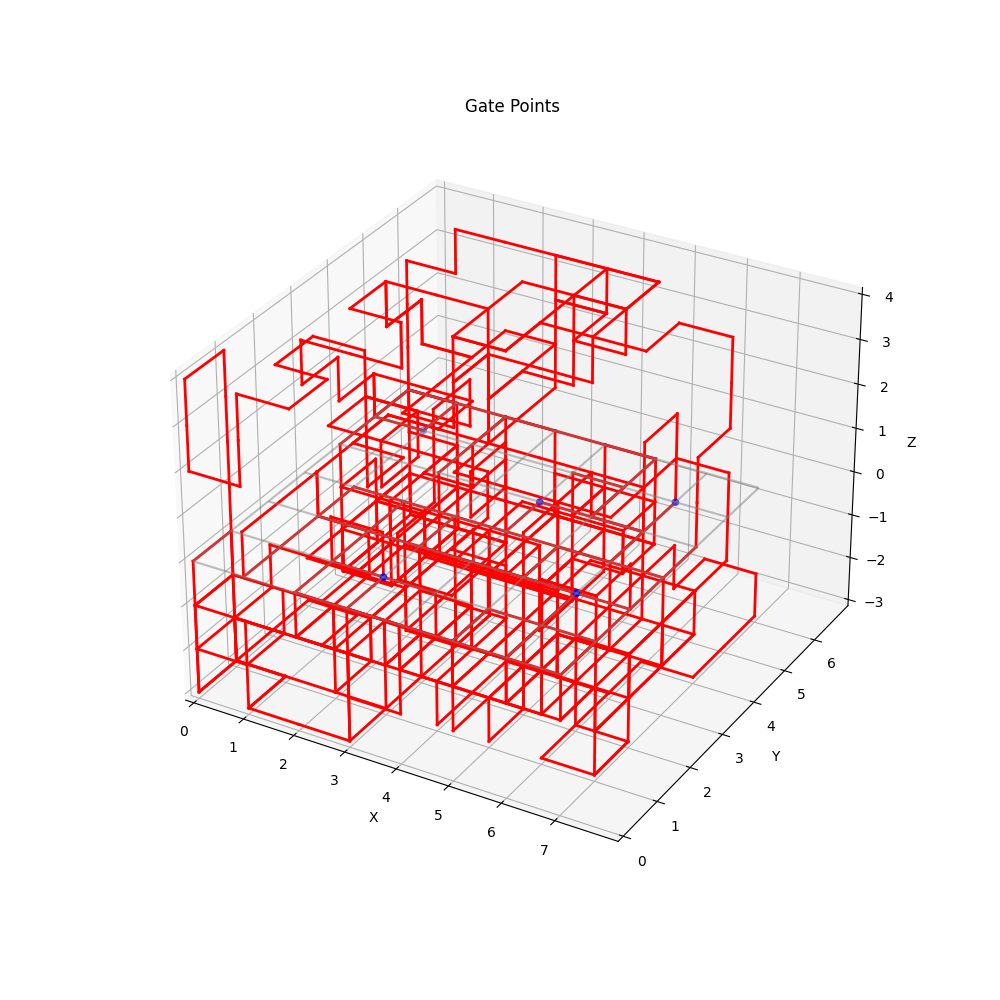
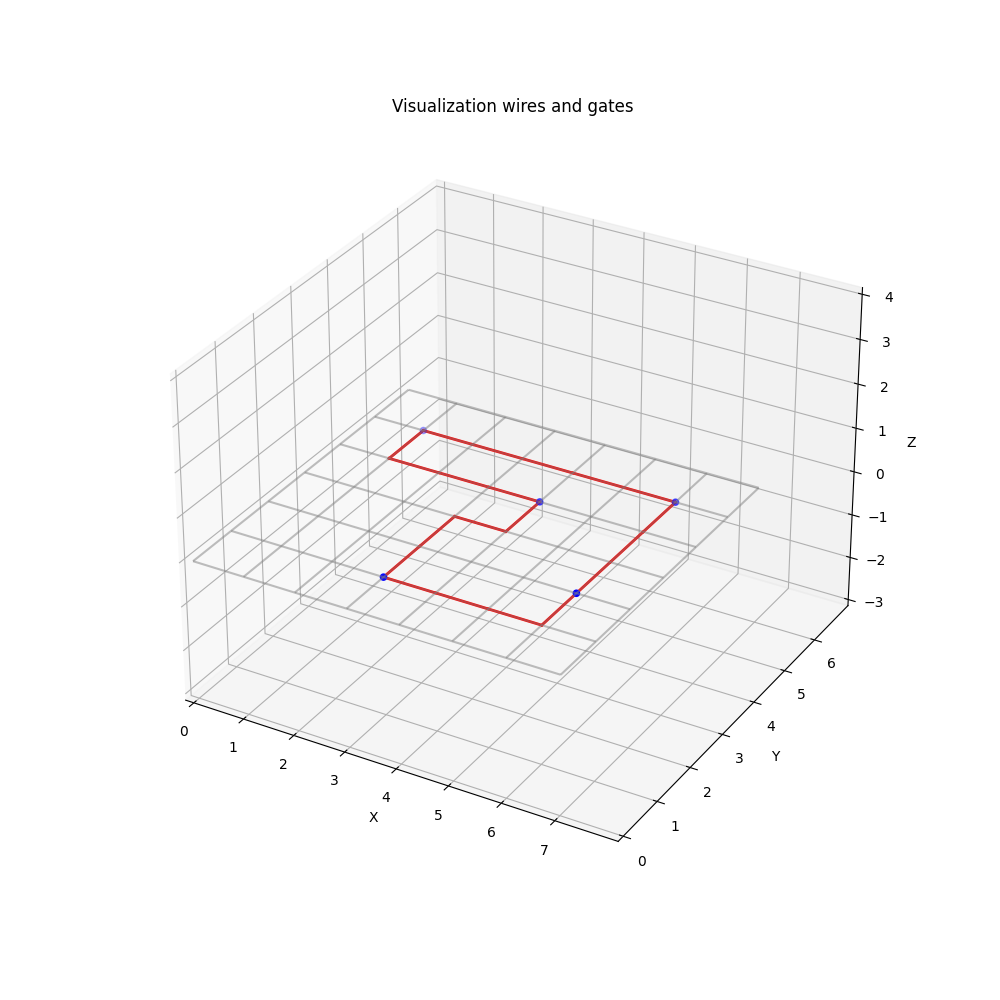
test class en probeerd graphen te maken

diff --git a/Code/Classes/testing.py b/Code/Classes/testing.py
@@ -1,0 +1,156 @@
+import sys
+from location import *
+from gate import *
+from wire import *
+from grid import *
+from chip import *
+sys.path.append("..")
+from main import *
+sys.path.append("../algorithms")
+from greedy import *
+from randomize import *
+from randomize_twee_d import *
+sys.path.append("../Visualization")
+from bargraph import *
+
+class Test():
+
+    def __init__(self) -> None:
+        self.cost_list = []
+        self.cost_library = {}
+        
+        self.netlists = []
+        self.variables = []
+
+    def make_bar_graph(self):
+        print(self.cost_library)
+        print(self.variables)
+        bargraph(self.cost_library, self.variables)
+
+    def make_graph(self):
+        pass
+
+    def get_netlists(self, number_chip):
+        if number_chip == 0:
+            self.netlists = [1, 2, 3]
+        # elif number_chip == 1:
+        #     self.netlists = [4, 5, 6]
+        # elif number_chip == 2:
+        #     self.netlists = [7, 8, 9]
+
+        return self.netlists
+
+    def testing_order(self,netlist, chip_id, gates_file, algorithm):
+        """
+        Automated testing
+        """
+        
+        self.cost_library[f"{netlist}"]= []
+
+        sorting_orders = ["basic", "random", "reverse","long","least-connections","most-connections","sum-lowest","sum-highest","outside","intra-quadrant","manhattan", "short", "middle", "inter-quadrant"]
+        self.variables = sorting_orders
+        for order_choice in sorting_orders:
+
+            # make new chip
+            chip = Chip(chip_id, netlist, gates_file)
+
+            # load everything
+            chip.load_gates()
+            chip.load_netlist()
+            
+            choose_algorithm(algorithm, chip, order_choice)
+            cost = chip.calculate_cost()
+            print(f"sort: {order_choice} || final score", cost)
+            self.cost_library[f"{netlist}"].append(cost)
+
+    def testing_all_algorithms(self,netlist,chip_id,gates_file):
+
+        algorithms = ["greedy", "random", "random2D","hillclimber","astar"]
+        self.variables = algorithms
+        self.cost_library[f"{netlist}"]= []
+
+        for algorithm in algorithms:
+            # make new chip
+            chip = Chip(chip_id, netlist, gates_file)
+            order_choice = "basic"
+            
+            # load everything
+            chip.load_gates()
+            chip.load_netlist()
+
+            choose_algorithm(algorithm, chip, order_choice)
+            cost = chip.calculate_cost()
+            print(f"algorithm: {algorithm} || final score", cost)
+            self.cost_list.append(cost)
+    
+    def average(self,netlist, chip_id, gates_file,n, algorithm):
+        
+        self.variables = list(range(n))
+        self.cost_library[f"{netlist}"]= []
+
+        if algorithm == "random":
+            for number in range(n):
+                chip = Chip(chip_id, netlist, gates_file)
+                # load everything
+                chip.load_gates()
+                chip.load_netlist()
+                random_algorithm(chip)
+                cost = chip.calculate_cost()
+                self.cost_library[f"{netlist}"].append(cost)
+                print(f"algorithm: {algorithm} || score", cost)
+        
+        elif algorithm == "random2D":
+            for number in range(n):
+                chip = Chip(chip_id, netlist, gates_file)
+                # load everything
+                chip.load_gates()
+                chip.load_netlist()
+                random2D(chip)
+                cost = chip.calculate_cost()
+                self.cost_library[f"{netlist}"].append(cost)
+                print(f"algorithm: {algorithm} || score", cost)
+        
+        elif algorithm == "hillclimber":
+            for number in range(n):
+                chip = Chip(chip_id, netlist, gates_file)
+                # load everything
+                chip.load_gates()
+                chip.load_netlist()
+                hillclimber_algorithm(chip)
+                cost = chip.calculate_cost()
+                self.cost_library[f"{netlist}"].append(cost)
+                print(f"algorithm: {algorithm} || score", cost)
+
+def test(subject):
+    number_chips = [0]
+    test = Test()
+    n = 100
+    for number_chip in number_chips:
+        netlists = test.get_netlists(number_chip)
+        
+        for number_netlist in netlists:
+            netlist = f"netlist_{number_netlist}"
+            chip_id = f"{number_chip}"
+            gates_file = f"print_{number_chip}"
+        	
+            print(f"---chip: {chip_id} and netlist: {number_netlist}-------------------")
+            
+            if subject == "algorithms":
+                test.testing_all_algorithms(netlist,chip_id,gates_file)
+            
+            elif subject == "order":
+                algorithm = "astar"
+                test.testing_order(netlist, chip_id, gates_file, algorithm)
+                test.make_bar_graph()
+
+            elif subject == "average_random2D":
+                test.average(netlist, chip_id, gates_file,n,"random2D")
+                test.make_bar_graph()
+            
+            elif subject == "average_random":
+                test.average(netlist, chip_id, gates_file,n,"random")
+                test.make_bar_graph()
+
+            elif subject == "average_hillclimber":
+                test.average(netlist, chip_id, gates_file,n,"hillclimber")
+                test.make_bar_graph()

diff --git a/Code/main.py b/Code/main.py
@@ -7,9 +7,11 @@ import sys
 from sys import argv
 sys.path.append("Classes")
 from chip import *
+from testing import *
 sys.path.append("Visualization")
 from plot import *
 from graph import *
+from bargraph import bargraph
 sys.path.append("algorithms")
 from greedy import *
 from randomize import *
@@ -34,104 +36,25 @@ def choose_algorithm(algorithm, chip, order_choice):
     # if greedy is selected, run the greedy algorithm
     if algorithm == "greedy":
         greedy_algorithm(chip)
-        return chip.calculate_cost()
     
     # if algoritm is random, run the random algorithm
     elif algorithm == "random":
         random_algorithm(chip)
-        return chip.calculate_cost()
-    
-    elif algorithm == "average_random":
-        return random_n_times(chip,n)
     
     elif algorithm == "random2D":
         random_twee_d(chip)
-        return chip.calculate_cost()
-    elif algorithm == "average_random2D":
-        return average_random_twee_d(chip,n)
+    
 
 
     # if algoritm is astar, run the astar algorithm
     elif algorithm == "astar":
         astar_algorithm(chip.wires, chip.wire_connections, chip.grid, chip.gates, "optimal")
-        return chip.calculate_cost()
     
     # if algoritzhm is hillclimber, run the hillclimber algorithm
     elif algorithm == "hillclimber":
         hillclimber_algorithm(chip)
-        return chip.calculate_cost()
-    elif algorithm == "average_hillclimber":
-        return hillclimber_n_times(chip, n)
+
         
-
-
-def get_netlists(number_chip):
-        if number_chip == 0:
-            netlists = [1, 2, 3]
-        # elif number_chip == 1:
-        #     netlists = [4, 5, 6]
-        # elif number_chip == 2:
-        #     netlists = [7, 8, 9]
-
-        return netlists
-
-def testing_order(netlist, chip_id, gates_file, algorithm):
-    """
-    Automated testing
-    """
-    sorting_orders = ["basic", "random", "reverse","long","least-connections","most-connections","sum-lowest","sum-highest","outside","intra-quadrant","manhattan", "short", "middle", "inter-quadrant"]
-    algorithm = algorithm
-    
-    for order_choice in sorting_orders:
-
-        # make new chip
-        chip = Chip(chip_id, netlist, gates_file)
-
-        # load everything
-        chip.load_gates()
-        chip.load_netlist()
-        
-        choose_algorithm(algorithm, chip, order_choice)
-
-        print(f"sort: {order_choice} || final score", chip.calculate_cost())
-        
-
-def testing_algorithms(netlist,chip_id,gates_file):
-    algorithms = ["greedy","average_random", "average_random2D","average_hillclimber","astar"]
-    cost_list = []
-    for algorithm in algorithms:
-        # make new chip
-        chip = Chip(chip_id, netlist, gates_file)
-        order_choice = "basic"
-        
-        # load everything
-        chip.load_gates()
-        chip.load_netlist()
-        cost = choose_algorithm(algorithm, chip, order_choice)
-
-        print(f"algorithm: {algorithm} || final score", cost)
-        cost_list.append(cost)
-    return cost_list
-   
-        
-def test(subject):
-    number_chips = [0, 1, 2]
-    algorithm = "astar"
-    for number_chip in number_chips:
-        netlists = get_netlists(number_chip)
-        
-        for number_netlist in netlists:
-            netlist = f"netlist_{number_netlist}"
-            chip_id = f"{number_chip}"
-            gates_file = f"print_{number_chip}"
-        	
-            print(f"---chip: {chip_id} and netlist: {number_netlist}-------------------")
-            if subject == "algorithms":
-                testing_algorithms(netlist,chip_id,gates_file)
-            elif subject == "order":
-                testing_order(netlist, chip_id, gates_file, algorithm)
-
-
 def main():
     """
     main function, calling to 
@@ -147,8 +70,14 @@ def main():
             test("order")
         elif argv[1] == "algorithmtest":
             test("algorithms")
+        elif argv[1] == "average_random":
+            test("average_random")
+        elif argv[1] == "average_random2D":
+            test("average_random2D")
+        elif argv[1] == "average_hillclimber":
+            test("average_hillclimber")
         else:
-             print("Usage: python main.py [number_chip] [number_netlist] [algorithm] [sorting_order]")
+            print("Usage: python main.py [number_chip] [number_netlist] [algorithm] [sorting_order]")
 
     else:
         # get all the necessary information.
@@ -184,7 +113,8 @@ def main():
         chip.load_netlist()
 
         # run algorithm and output
-        print("final:", choose_algorithm(algorithm, chip, order_choice))
+        choose_algorithm(algorithm, chip, order_choice)
+        print("final:", chip.calculate_cost())
         visualize(chip.gate_list, chip.grid, chip.wires)
         
         chip.output_to_csv()

diff --git a/Code/algorithms/randomize_twee_d.py b/Code/algorithms/randomize_twee_d.py
@@ -5,7 +5,7 @@ from gate import *
 from location import *
 
 # main random algorithm
-def random_twee_d(chip):
+def random2D(chip):
     """
     Perform a random algorithm to generate wire connections on a chip.
 
@@ -33,11 +33,3 @@ def random_twee_d(chip):
         # add wire
         random_add_wire(possibilities, wire, chip)
  
-
-def average_random_twee_d(chip,n):
-    total = 0
-    for number in range(n):
-        random_twee_d(chip)
-        cost = chip.calculate_cost()
-        total += cost
-    return total / n

diff --git a/Code/Visualization/bargraph.py b/Code/Visualization/bargraph.py
@@ -1,0 +1,17 @@
+import matplotlib.pyplot as plt
+
+
+
+def bargraph(cost_library, variables):
+    for netlist in cost_library:
+        cost = []
+        print(netlist)
+        plt.xlabel("x")
+        plt.ylabel("cost")
+        plt.title('Cost')
+
+        cost = cost_library[netlist]
+        print(cost)
+        plt.bar(variables,cost)
+        plt.savefig(f"./Visualization/bargraph_{netlist}")
+        # plt.show()

diff --git a/Code/Visualization/graph.py b/Code/Visualization/graph.py
@@ -2,12 +2,12 @@ import matplotlib.pyplot as plt
 
 def graph(cost_list):
         
-    fig = plt.figure(figsize=(10, 10))
+    
     x = []
     y = []
     for index in range(len(cost_list)): 
-        
-        for number in range(2):
+        fig = plt.figure(figsize=(10, 10))
+        for number in range(len(cost_list[index])):
             x.append(number)
             y.append(cost_list[index])
 

diff --git a/Code/algorithms/hillclimber.py b/Code/algorithms/hillclimber.py
@@ -74,11 +74,3 @@ def hillclimber_algorithm(chip:object):
         if i == 100:
                 break
         
-
-def hillclimber_n_times(chip,n):
-    total = 0
-    for number in range(n):
-        hillclimber_algorithm(chip)
-        cost = chip.calculate_cost()
-        total += cost
-    return total / n

diff --git a/Code/algorithms/randomize.py b/Code/algorithms/randomize.py
@@ -97,10 +97,3 @@ def check_if_valid(wire:object, chip:object, direction):
             return False
     return True
 
-def random_n_times(chip,n):
-    total = 0
-    for number in range(n):
-        random_algorithm(chip)
-        cost = chip.calculate_cost()
-        total += cost
-    return total / n

diff --git a/Code/Visualization/plot.py b/Code/Visualization/plot.py
@@ -21,7 +21,7 @@ def visualize(gates, grid, wires):
     ax.set_xlabel('X')
     ax.set_ylabel('Y')
     ax.set_zlabel('Z')
-    ax.set_title('Gate Points')
+    ax.set_title('Visualization wires and gates')
 
     # GATES
     # Create gate points from the CSV file
